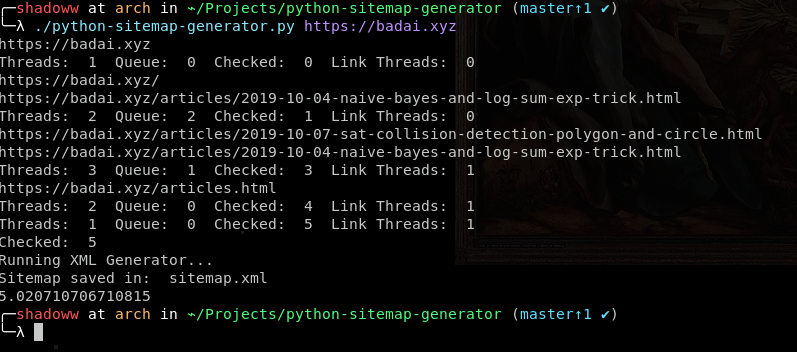
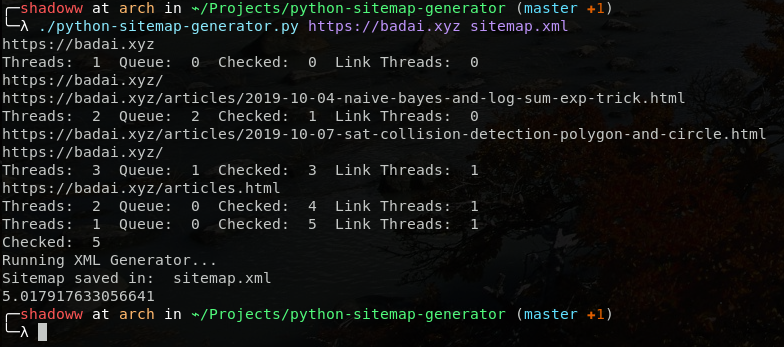
add output argument

Changed region(s): [[0.0, 0.0, 0.9796, 0.9798]]

diff --git a/python-sitemap-generator.py b/python-sitemap-generator.py
@@ -427,15 +427,17 @@ def ProcessChecked(obj):
         checked.append(obj)
 
 def print_usage():
-    print("usage: " + sys.argv[0] + " URL")
+    print("usage: " + sys.argv[0] + " URL OUTPUT")
 
 
 def main():
-    if len(sys.argv) < 2:
+    global filename
+    if len(sys.argv) < 3:
         print_usage()
         sys.exit(1)
 
     init_url(sys.argv[1])
+    filename = sys.argv[2]
 
     RunCrawler(InitialURL)
 

diff --git a/README.md b/README.md
@@ -13,6 +13,6 @@ The script will run under GNU/Linux operating system with Python 3 installed.
 
 ## USAGE
 - Set script to executable: chmod +x python-sitemap-generator.py
-- Run script: ./python-sitemap-generator.py https://example.com
+- Run script: ./python-sitemap-generator.py https://example.com sitemap.xml
 
 ![](screenshot.png)
